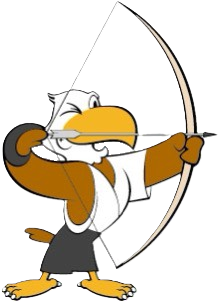
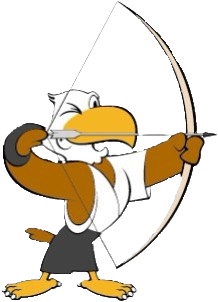
ロゴの調整

diff --git a/css/style.css b/css/style.css
@@ -28,13 +28,13 @@ header {
     display: flex;
     justify-content: space-between;
     align-items: center;
-    padding: 0 40px 0 50px;
+    padding: 10px 40px 0 50px;
     height: 100px;
     background-color: rgb(197, 239, 255); /* 水色の背景 */
 }
 
 header img {
-    height: 85px; /* ロゴの大きさ */
+    height: 95px; /* ロゴの大きさ */
 }
 
 .menu-toggle {
